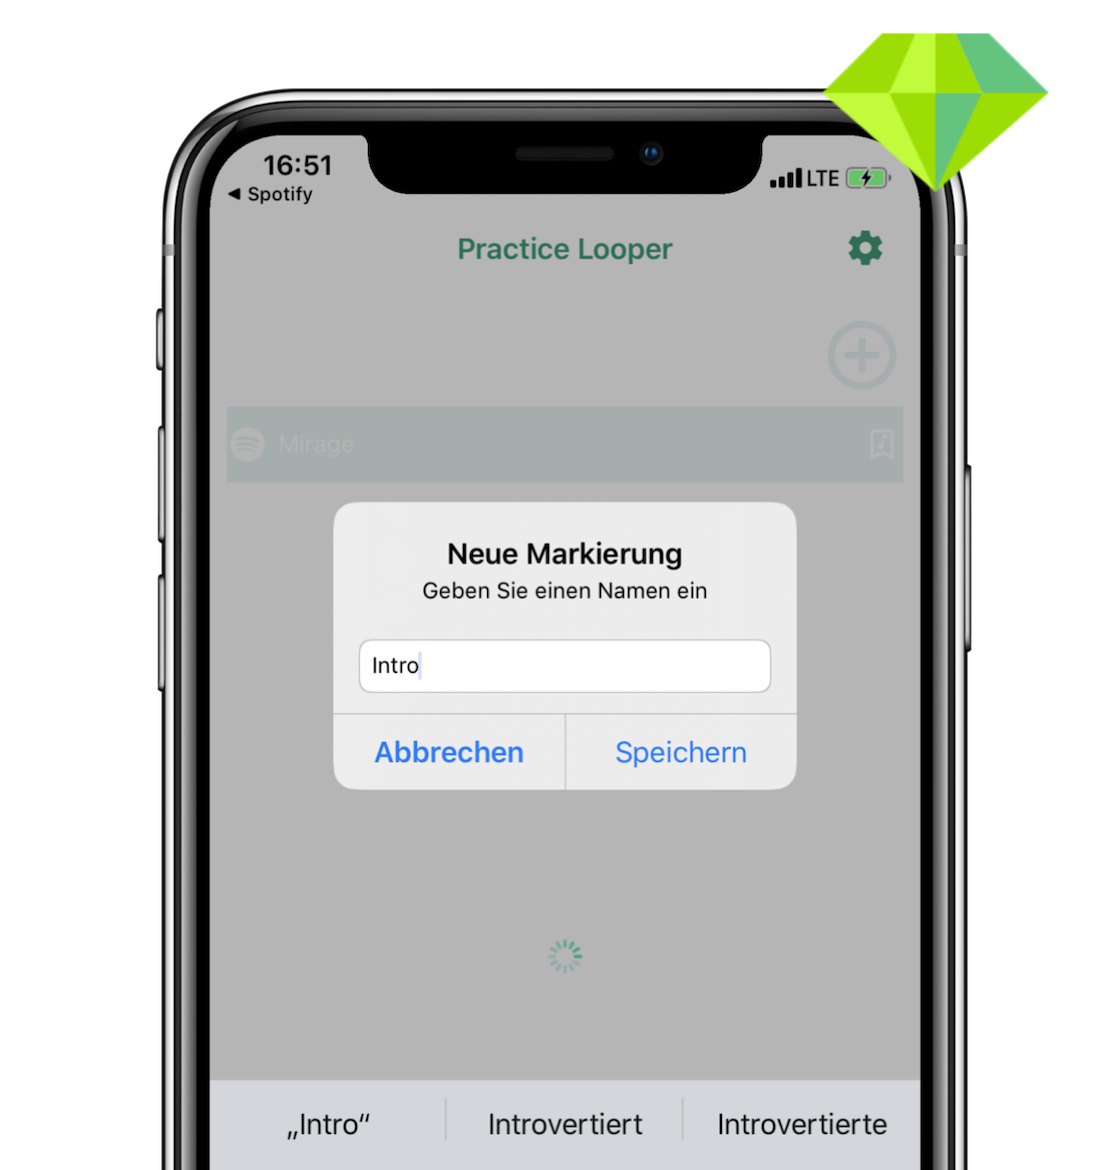
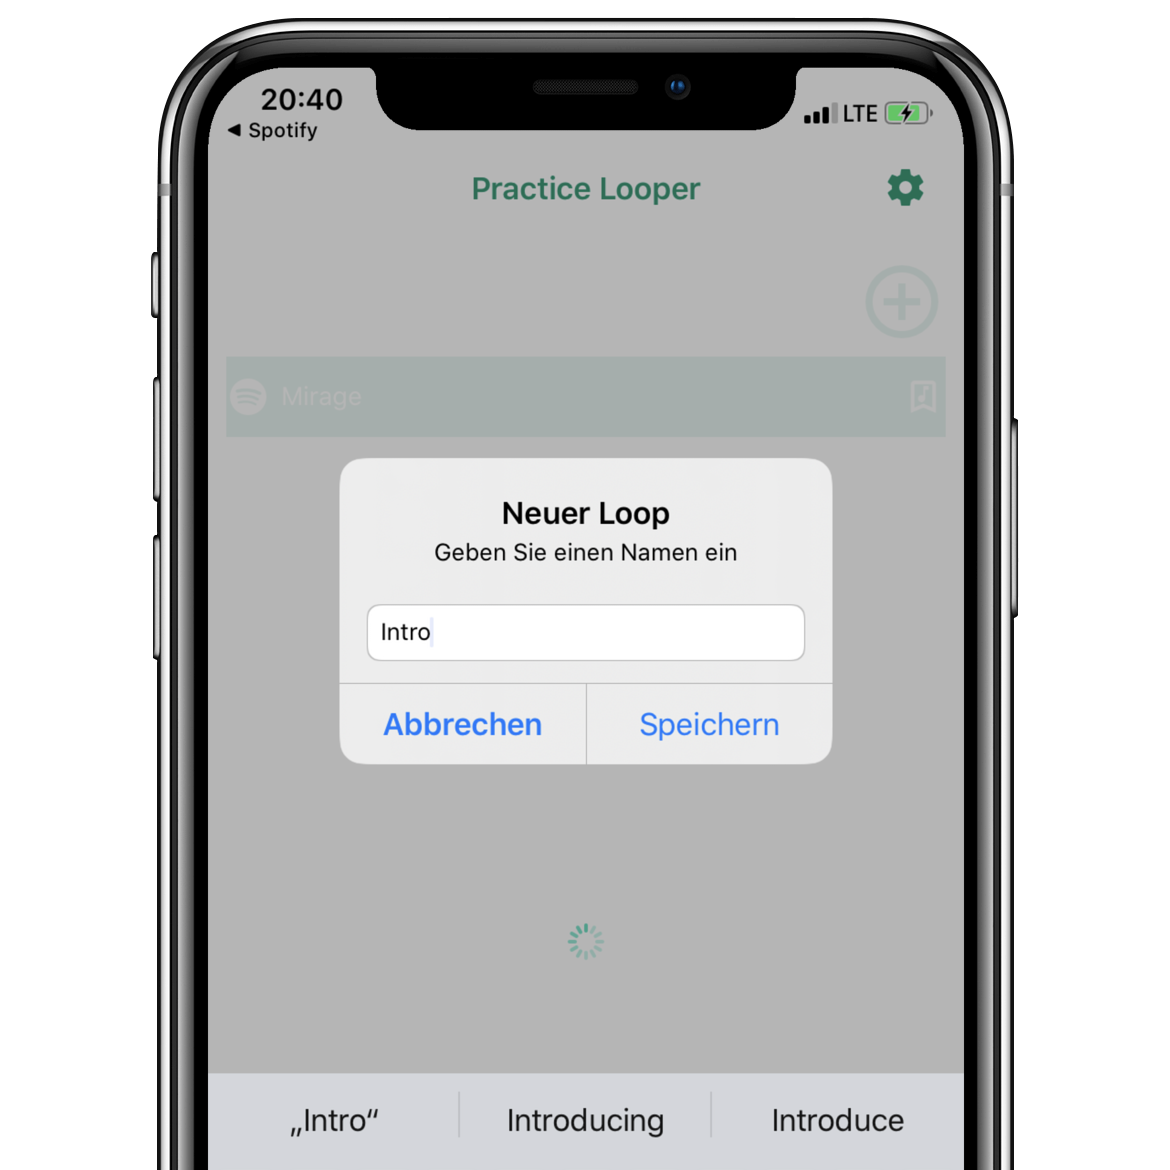
fix typo in Resource key replace addMArker image for de

diff --git a/Mobile/Emka.PracticeLooper.Mobile/AppResources.de-DE.Designer.cs b/Mobile/Emka.PracticeLooper.Mobile/AppResources.de-DE.Designer.cs
@@ -179,6 +179,12 @@ namespace Emka.PracticeLooper.Mobile {
             }
         }
         
+        internal static string OnboardingView_Welcome_Description {
+            get {
+                return ResourceManager.GetString("OnboardingView_Welcome_Description", resourceCulture);
+            }
+        }
+        
         internal static string OnboardingView_AddSong_Title {
             get {
                 return ResourceManager.GetString("OnboardingView_AddSong_Title", resourceCulture);
@@ -377,9 +383,9 @@ namespace Emka.PracticeLooper.Mobile {
             }
         }
         
-        internal static string Prompt_Content_NewLoo_NamePlaceholder {
+        internal static string Prompt_Content_NewLoop_NamePlaceholder {
             get {
-                return ResourceManager.GetString("Prompt_Content_NewLoo_NamePlaceholder", resourceCulture);
+                return ResourceManager.GetString("Prompt_Content_NewLoop_NamePlaceholder", resourceCulture);
             }
         }
     }

diff --git a/Mobile/Emka.PracticeLooper.Mobile/AppResources.en-US.Designer.cs b/Mobile/Emka.PracticeLooper.Mobile/AppResources.en-US.Designer.cs
@@ -179,6 +179,12 @@ namespace Emka.PracticeLooper.Mobile {
             }
         }
         
+        internal static string OnboardingView_Welcome_Description {
+            get {
+                return ResourceManager.GetString("OnboardingView_Welcome_Description", resourceCulture);
+            }
+        }
+        
         internal static string OnboardingView_AddSong_Title {
             get {
                 return ResourceManager.GetString("OnboardingView_AddSong_Title", resourceCulture);
@@ -377,9 +383,9 @@ namespace Emka.PracticeLooper.Mobile {
             }
         }
         
-        internal static string Prompt_Content_NewLoo_NamePlaceholder {
+        internal static string Prompt_Content_NewLoop_NamePlaceholder {
             get {
-                return ResourceManager.GetString("Prompt_Content_NewLoo_NamePlaceholder", resourceCulture);
+                return ResourceManager.GetString("Prompt_Content_NewLoop_NamePlaceholder", resourceCulture);
             }
         }
     }

diff --git a/Mobile/Emka.PracticeLooper.Mobile/ViewModels/MainViewModel.cs b/Mobile/Emka.PracticeLooper.Mobile/ViewModels/MainViewModel.cs
@@ -602,7 +602,7 @@ namespace Emka.PracticeLooper.Mobile.ViewModels
             IsBusy = true;
             try
             {
-                var name = await dialogService.ShowPromptAsync(AppResources.Prompt_Caption_NewLoop, AppResources.Prompt_Content_NewLoop, AppResources.Save, AppResources.Cancel, string.Format(AppResources.Prompt_Content_NewLoo_NamePlaceholder, CurrentSession.Session.Loops.Count));
+                var name = await dialogService.ShowPromptAsync(AppResources.Prompt_Caption_NewLoop, AppResources.Prompt_Content_NewLoop, AppResources.Save, AppResources.Cancel, string.Format(AppResources.Prompt_Content_NewLoop_NamePlaceholder, CurrentSession.Session.Loops.Count));
                 if (!string.IsNullOrEmpty(name))
                 {
                     // reset current loop

diff --git a/Mobile/Emka.PracticeLooper.Mobile/AppResources.Designer.cs b/Mobile/Emka.PracticeLooper.Mobile/AppResources.Designer.cs
@@ -383,9 +383,9 @@ namespace Emka.PracticeLooper.Mobile {
             }
         }
         
-        internal static string Prompt_Content_NewLoo_NamePlaceholder {
+        internal static string Prompt_Content_NewLoop_NamePlaceholder {
             get {
-                return ResourceManager.GetString("Prompt_Content_NewLoo_NamePlaceholder", resourceCulture);
+                return ResourceManager.GetString("Prompt_Content_NewLoop_NamePlaceholder", resourceCulture);
             }
         }
     }
